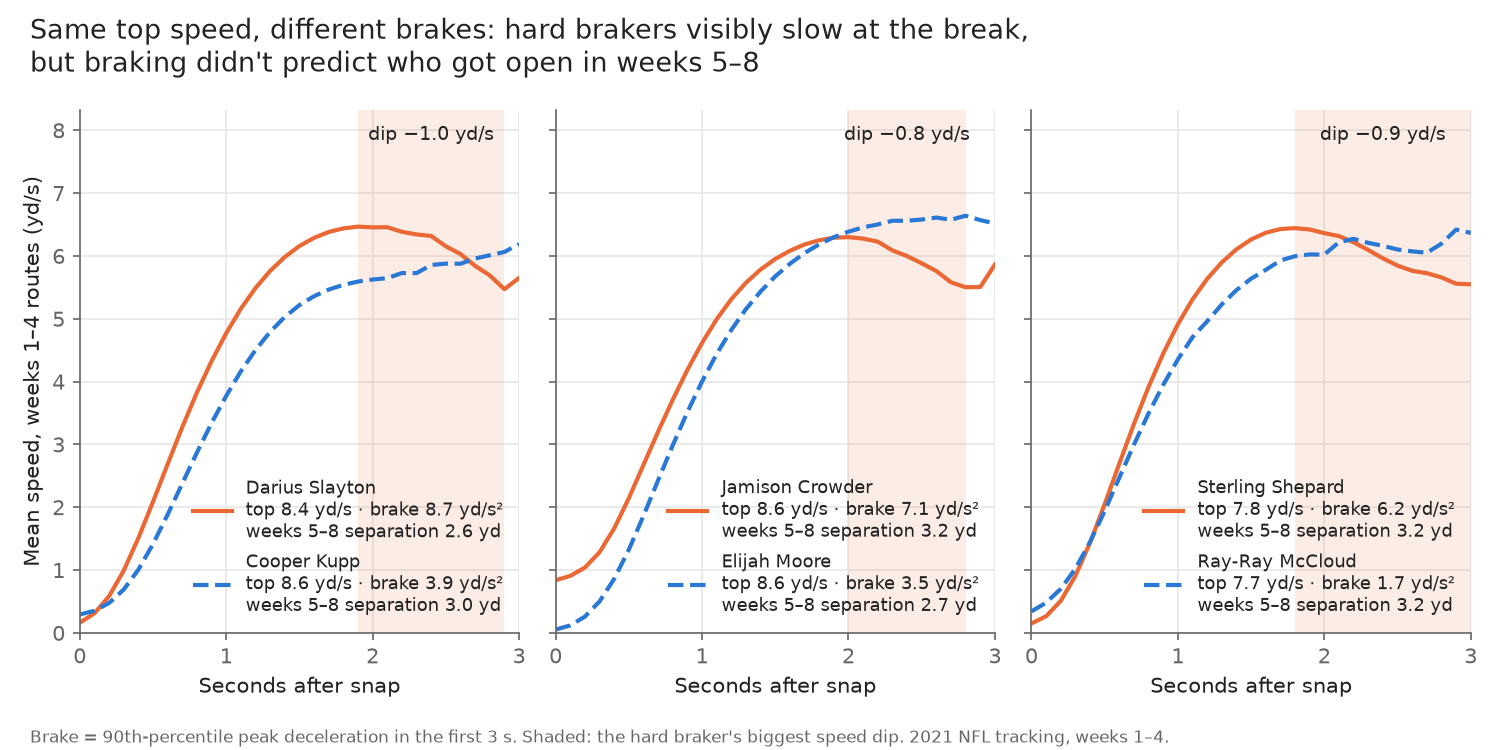
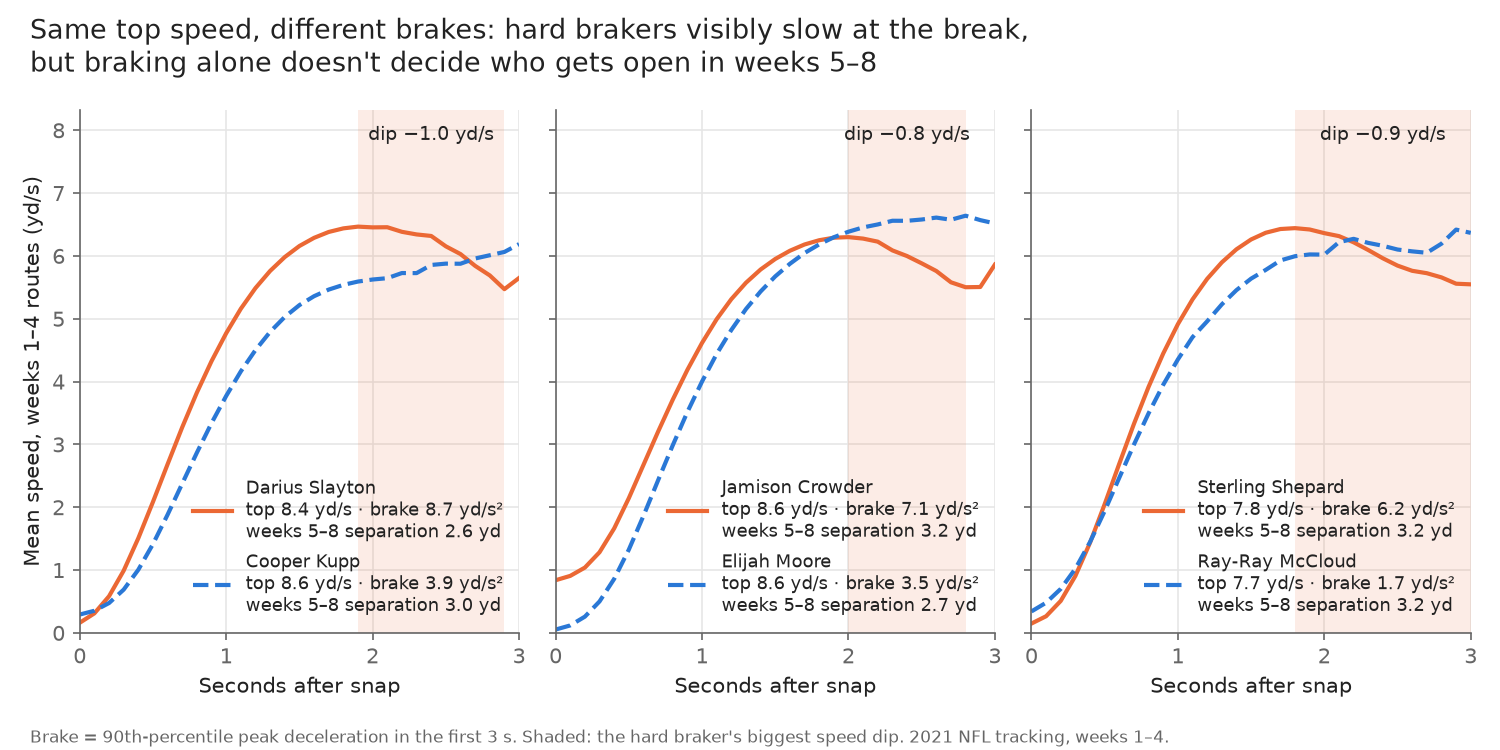
README: TabPFN results, all model versions; soften key chart title

Changed region(s): [[0.1227, 0.0613, 0.5827, 0.1227]]

diff --git a/src/05_speed_curves.py b/src/05_speed_curves.py
@@ -100,7 +100,7 @@ def main():
 
     axes[0].set_ylabel("Mean speed, weeks 1–4 routes (yd/s)", color=INK)
     fig.suptitle("Same top speed, different brakes: hard brakers visibly slow at the break,\n"
-                 "but braking didn't predict who got open in weeks 5–8", fontsize=13, color=INK, x=0.02,
+                 "but braking alone doesn't decide who gets open in weeks 5–8", fontsize=13, color=INK, x=0.02,
                  ha="left")
     fig.text(0.02, 0.01, "Brake = 90th-percentile peak deceleration in the first 3 s. Shaded: the hard braker's "
              "biggest speed dip. 2021 NFL tracking, weeks 1–4.", fontsize=8, color=MUTED)

diff --git a/README.md b/README.md
@@ -2,13 +2,13 @@
 
 Leonardo Villalobos & Alex Oh · NFL Big Data Bowl NYU Edition (2021 season, weeks 1–8)
 
-**Top speed is enough, and neither predicts much: adding a wide receiver's burst and braking to his top speed made our forecast of his weeks 5–8 separation 2.8% worse (MAE 0.341 vs. 0.332 yards, better in only 7 of 25 folds), while his own weeks 1–4 separation tracked it twice as well as top speed did (Spearman 0.51 vs. 0.24).** From player tracking we built a speed curve for every route run by 106 WRs with 20+ routes in each half, measured "gas" (speed and peak acceleration in the first second) and "brakes" (hardest deceleration and biggest speed drop in the first 3 seconds, 90th percentile of his routes), and compared the same ridge regression with and without them using 5-fold cross-validation across players, repeated 5 times. The one hint is against zone, where a receiver's speed drop ranks his later separation better than top speed (Spearman 0.31 vs. 0.16), which fits sitting down in a hole between defenders, but its model effect isn't clear of zero. For scouts and coaches, the takeaway is to project who gets open from a receiver's own separation history rather than from his speed or how hard he stops, because getting open is a stable skill these movement numbers miss. Separation is measured to the nearest defender 2.5 s after the snap (or at the throw if earlier), braking depends on the routes a receiver is asked to run, and the sample is eight weeks of one season.
+**Gas and brakes help only slightly: adding a wide receiver's burst and braking to his top speed cut our error in predicting his weeks 5–8 separation by 2.6% (MAE 0.326 vs. 0.335 yards, better in 16 of 25 folds), but neither model beats a simple average by much, while his own weeks 1–4 separation tracked it twice as well as top speed did (Spearman 0.51 vs. 0.24).** From player tracking we built a speed curve for every route run by 106 WRs with 20+ routes in each half, measured "gas" (speed and peak acceleration in the first second) and "brakes" (hardest deceleration and biggest speed drop in the first 3 seconds, 90th percentile of his routes), and compared the same TabPFN model with and without them using 5-fold cross-validation across players, repeated 5 times. The one hint is against zone, where a receiver's speed drop ranks his later separation better than top speed (Spearman 0.31 vs. 0.16), which fits sitting down in a hole between defenders, but its model effect isn't clear of zero. For scouts and coaches, the takeaway is to project who gets open mainly from a receiver's own separation history, using braking as a tiebreaker rather than top speed alone, because getting open is a stable skill these movement numbers only partly capture. Separation is measured to the nearest defender 2.5 s after the snap (or at the throw if earlier), braking depends on the routes a receiver is asked to run, and the sample is eight weeks of one season.
 
 ## Same top speed, different brakes
 
 ![Speed curves](outputs/figures/speed_curves.png)
 
-Each pair has nearly the same top speed but very different braking. The hard braker (orange) clearly slows at the break around 2 s, yet in weeks 5–8 the light braker was as open or more open in two of three pairs. Cooper Kupp, in his 2021 triple-crown season, barely brakes at all: he wins at the break without stopping.
+Each pair has nearly the same top speed but very different braking. The hard braker (orange) clearly slows at the break around 2 s, yet in weeks 5–8 the light braker was as open or more open in two of three pairs: braking alone doesn't decide who gets open. Cooper Kupp, in his 2021 triple-crown season, barely brakes at all: he wins at the break without stopping.
 
 ## Does adding gas and brakes beat top speed?
 
@@ -21,15 +21,24 @@ Each pair has nearly the same top speed but very different braking. The hard bra
 ## Methods and assumptions
 
 - **Players:** WRs only (106), with at least 20 routes in weeks 1–4 and 20 in weeks 5–8; pass plays only (complete, incomplete, intercepted).
-- **Features (weeks 1–4):** `top_speed` (90th percentile of per-route max speed); gas: `speed_1s`, `peak_accel_1s` (medians); brakes: `peak_decel`, `speed_drop` (90th percentiles, because 69% of routes are cut short by the throw, a median measured how often a WR breaks, not how hard; with medians the full model was 4.0% worse, so the conclusion is the same).
+- **Features (weeks 1–4):** `top_speed` (90th percentile of per-route max speed); gas: `speed_1s`, `peak_accel_1s` (medians); brakes: `peak_decel`, `speed_drop` (90th percentiles, because 69% of routes are cut short by the throw, a median measured how often a WR breaks, not how hard; this choice was made after a first look at results; see below).
 - **Target (weeks 5–8):** `avg_separation`, mean yards to the nearest defender at 2.5 s after the snap or at the throw.
-- **Model:** `RidgeCV` on standardized features for both feature sets (the framework's fallback; TabPFN needs a license key). Cross-validated R² is below zero for both, so speed features alone explain little of who gets open.
+- **Model:** `TabPFNRegressor()` for both feature sets. Cross-validated R² is below zero for both (guessing the average gives MAE 0.344 yd), so speed features alone explain little of who gets open.
+- **The small gain depends on the model, so we report every version we ran:**
+
+  | Brakes summary | Model | Full vs. baseline MAE | Folds full wins |
+  |---|---|---|---|
+  | Median | RidgeCV | 4.0% worse | 6 of 25 |
+  | 90th percentile | RidgeCV | 2.8% worse | 7 of 25 |
+  | 90th percentile | **TabPFN (final)** | **2.6% better** | **16 of 25** |
+
+  TabPFN can use non-linear patterns a linear model can't; in a linear model only top speed has an effect clearly above zero (+0.07 yd per SD).
 - Full results: `outputs/tables/` (`model_results.csv`, `feature_weights.csv`, `predictions.csv`, `player_metrics.csv`).
 
 ## How to run
 
 1. Download the event data from [nfl-big-data-bowl-regional-event-data](https://github.com/ThompsonJamesBliss/nfl-big-data-bowl-regional-event-data) into `data/raw/` (so `data/raw/games.csv`, `data/raw/tracking/…`).
-2. `pip install -r requirements.txt`
+2. `pip install -r requirements.txt`, plus `pip install tabpfn` and a Prior Labs API key in the `TABPFN_TOKEN` environment variable (without it, `03_models.py` falls back to RidgeCV and gives the RidgeCV rows above).
 3. From the repo root, run in order:
    ```
    python src/01_build_routes.py
